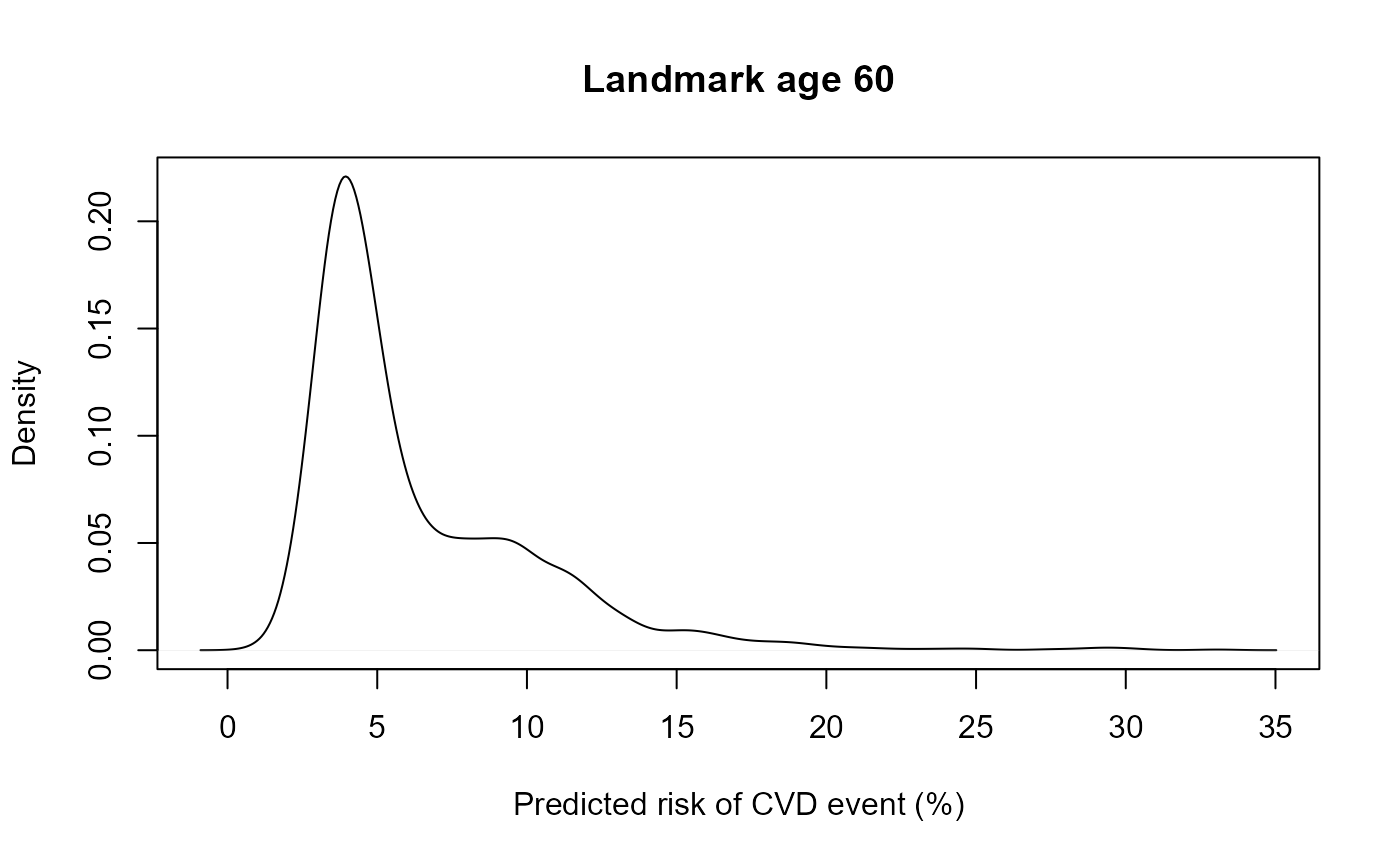
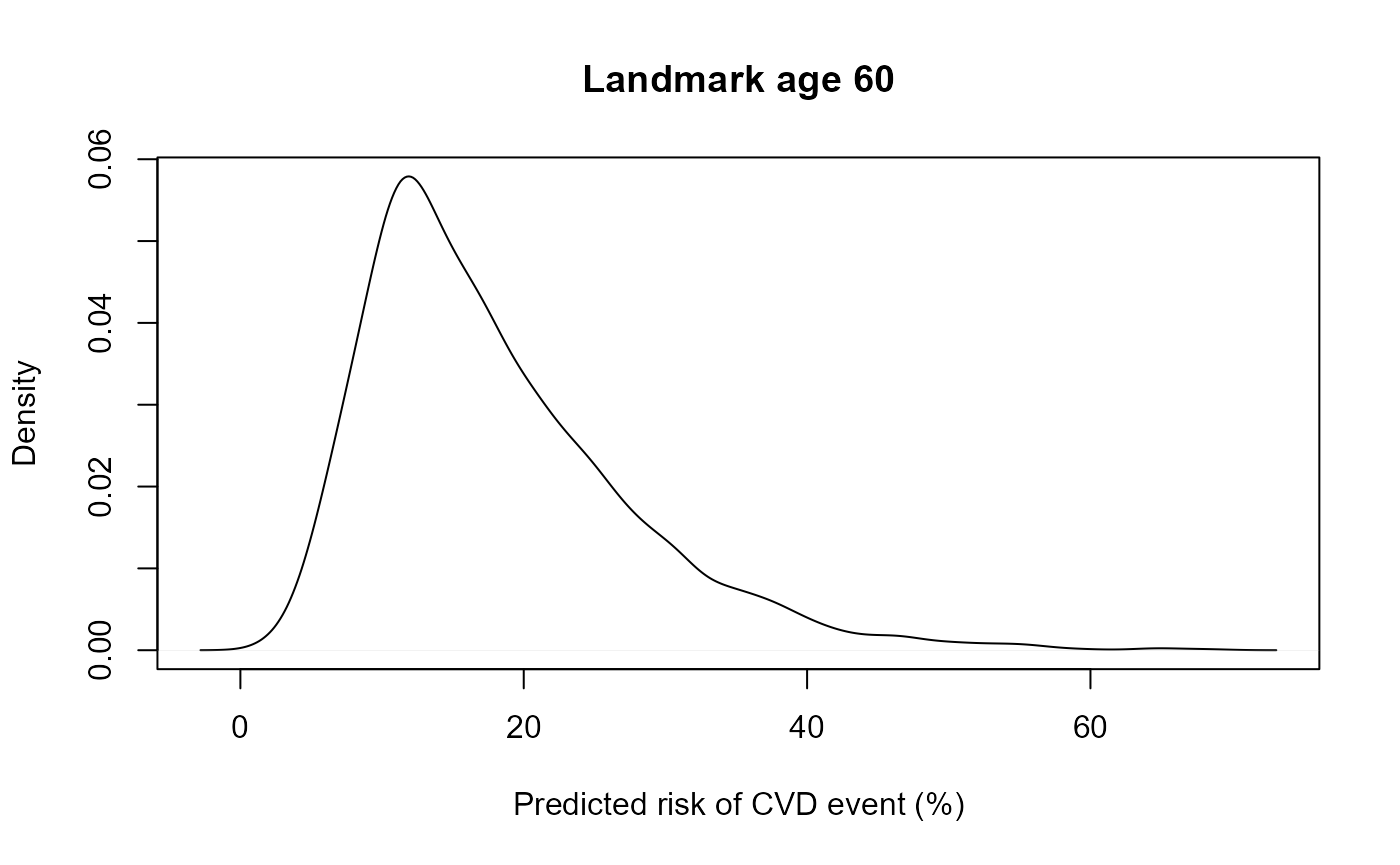
Vignette with new data

diff --git a/docs/articles/how_to_use.html b/docs/articles/how_to_use.html
@@ -117,42 +117,42 @@
 <span class="fu"><a href="https://rdrr.io/r/base/Random.html" class="external-link">set.seed</a></span><span class="op">(</span><span class="fl">1</span><span class="op">)</span>
 <span class="fu"><a href="https://rdrr.io/r/utils/data.html" class="external-link">data</a></span><span class="op">(</span><span class="va">data_repeat</span><span class="op">)</span>
 <span class="fu"><a href="https://rdrr.io/r/utils/head.html" class="external-link">head</a></span><span class="op">(</span><span class="va">data_repeat</span><span class="op">)</span>
-<span class="co">#&gt;   id smoking diabetes ethnicity deprivation index    sbp_stnd tchdl_stnd</span>
-<span class="co">#&gt; 1  1       0        0  European           2     1 -1.32031272 -0.6701369</span>
-<span class="co">#&gt; 2  1       0        0  European           2     2 -0.79339073 -1.1694297</span>
-<span class="co">#&gt; 3  1       0        0  European           2     3 -1.49207104 -0.6655325</span>
-<span class="co">#&gt; 4  1       0        0  European           2     4 -0.04093651 -0.6756338</span>
-<span class="co">#&gt; 5  2       0        0  European           1     1 -0.70343579 -1.0776750</span>
-<span class="co">#&gt; 6  3       1        0  European           5     1  0.86883763 -0.7842055</span>
-<span class="co">#&gt;   end_of_study_age response_time_tchdl_stnd response_time_sbp_stnd</span>
-<span class="co">#&gt; 1         71.23340                 58.03422               57.98220</span>
-<span class="co">#&gt; 2         71.23340                 57.55236               57.51403</span>
-<span class="co">#&gt; 3         71.23340                 59.14579               59.06913</span>
-<span class="co">#&gt; 4         71.23340                 61.19644               61.18275</span>
-<span class="co">#&gt; 5         71.64408                 65.55236               65.51403</span>
-<span class="co">#&gt; 6         69.55784                 63.04723               63.00616</span>
+<span class="co">#&gt;   id smoking diabetes ethnicity        dob index   sbp_stnd   tchdl_stnd</span>
+<span class="co">#&gt; 1  1       0        0  European 1957-03-26     1  0.6083674  0.462541398</span>
+<span class="co">#&gt; 2  2       0        0  European 1952-11-12     1 -0.6701342  0.005126055</span>
+<span class="co">#&gt; 3  3       1        0  European 1953-08-03     1  1.2431679  0.183656473</span>
+<span class="co">#&gt; 4  3       1        0  European 1953-08-03     2  0.9569143  0.185134324</span>
+<span class="co">#&gt; 5  3       1        0  European 1953-08-03     3  1.0044586 -0.391911821</span>
+<span class="co">#&gt; 6  4       0        0   Pacific 1959-07-07     1  0.2846879 -0.080660875</span>
+<span class="co">#&gt;   response_time_tchdl_stnd response_time_sbp_stnd</span>
+<span class="co">#&gt; 1                 62.58727               62.57906</span>
+<span class="co">#&gt; 2                 57.26762               57.21561</span>
+<span class="co">#&gt; 3                 60.87611               60.79671</span>
+<span class="co">#&gt; 4                 56.50376               56.46817</span>
+<span class="co">#&gt; 5                 63.93977               63.92608</span>
+<span class="co">#&gt; 6                 51.83299               51.81109</span>
 <span class="fu"><a href="https://rdrr.io/r/utils/data.html" class="external-link">data</a></span><span class="op">(</span><span class="va">data_outcomes</span><span class="op">)</span>
 <span class="fu"><a href="https://rdrr.io/r/utils/head.html" class="external-link">head</a></span><span class="op">(</span><span class="va">data_outcomes</span><span class="op">)</span>
 <span class="co">#&gt;   id event_status event_time</span>
-<span class="co">#&gt; 1  1            0   63.12263</span>
-<span class="co">#&gt; 2  2            0   71.64408</span>
-<span class="co">#&gt; 3  3            0   63.17899</span>
-<span class="co">#&gt; 4  4            0   73.52498</span>
-<span class="co">#&gt; 5  5            0   64.72005</span>
-<span class="co">#&gt; 6  6            0   62.23649</span></code></pre></div>
-<p>Looking further at these datasets we see that there are 3000 patients in this study, each with an average of 3.016 assessments.</p>
+<span class="co">#&gt; 1  1            1   60.73112</span>
+<span class="co">#&gt; 2  2            0   66.07927</span>
+<span class="co">#&gt; 3  3            0   66.10580</span>
+<span class="co">#&gt; 4  4            0   61.74113</span>
+<span class="co">#&gt; 5  5            0   65.99720</span>
+<span class="co">#&gt; 6  6            0   61.81972</span></code></pre></div>
+<p>Looking further at these datasets we see that there are 3000 patients in this study, each with an average of 0.9031 assessments.</p>
 <div class="sourceCode" id="cb2"><pre class="downlit sourceCode r">
 <code class="sourceCode R"><span class="fu"><a href="https://rdrr.io/r/base/length.html" class="external-link">length</a></span><span class="op">(</span><span class="fu"><a href="https://rdrr.io/r/base/unique.html" class="external-link">unique</a></span><span class="op">(</span><span class="va">data_repeat</span><span class="op">$</span><span class="va">id</span><span class="op">)</span><span class="op">)</span>
 <span class="co">#&gt; [1] 3000</span>
 <span class="fu"><a href="https://rdrr.io/r/base/mean.html" class="external-link">mean</a></span><span class="op">(</span><span class="fu"><a href="https://rdrr.io/r/base/table.html" class="external-link">table</a></span><span class="op">(</span><span class="va">data_repeat</span><span class="op">$</span><span class="va">id</span><span class="op">)</span><span class="op">)</span>
-<span class="co">#&gt; [1] 3.016</span></code></pre></div>
+<span class="co">#&gt; [1] 0.9031</span></code></pre></div>
 <p>Moreover, we can see the breakdown of events</p>
 <div class="sourceCode" id="cb3"><pre class="downlit sourceCode r">
 <code class="sourceCode R"><span class="fu"><a href="https://rdrr.io/r/base/table.html" class="external-link">table</a></span><span class="op">(</span><span class="va">data_outcomes</span><span class="op">$</span><span class="va">event_status</span><span class="op">)</span>
 <span class="co">#&gt; </span>
 <span class="co">#&gt;    0    1    2 </span>
-<span class="co">#&gt; 2872   93   35</span></code></pre></div>
-<p>So 93 patients in the study (out of 3000) experienced a CVD event and 35 experienced death from other causes.</p>
+<span class="co">#&gt; 2538  429   33</span></code></pre></div>
+<p>So 429 patients in the study (out of 3000) experienced a CVD event and 33 experienced death from other causes.</p>
 </div>
 <div id="set-up" class="section level2">
 <h2 class="hasAnchor">
@@ -161,27 +161,20 @@
 <div class="sourceCode" id="cb4"><pre class="downlit sourceCode r">
 <code class="sourceCode R"><span class="va">data_repeat_outcomes</span><span class="op">&lt;-</span><span class="fu">dplyr</span><span class="fu">::</span><span class="fu"><a href="https://dplyr.tidyverse.org/reference/mutate-joins.html" class="external-link">left_join</a></span><span class="op">(</span><span class="va">data_repeat</span>,<span class="va">data_outcomes</span>,by<span class="op">=</span><span class="st">"id"</span><span class="op">)</span>
 <span class="fu"><a href="https://rdrr.io/r/utils/head.html" class="external-link">head</a></span><span class="op">(</span><span class="va">data_repeat_outcomes</span><span class="op">)</span>
-<span class="co">#&gt;   id smoking diabetes ethnicity deprivation index    sbp_stnd tchdl_stnd</span>
-<span class="co">#&gt; 1  1       0        0  European           2     1 -1.32031272 -0.6701369</span>
-<span class="co">#&gt; 2  1       0        0  European           2     2 -0.79339073 -1.1694297</span>
-<span class="co">#&gt; 3  1       0        0  European           2     3 -1.49207104 -0.6655325</span>
-<span class="co">#&gt; 4  1       0        0  European           2     4 -0.04093651 -0.6756338</span>
-<span class="co">#&gt; 5  2       0        0  European           1     1 -0.70343579 -1.0776750</span>
-<span class="co">#&gt; 6  3       1        0  European           5     1  0.86883763 -0.7842055</span>
-<span class="co">#&gt;   end_of_study_age response_time_tchdl_stnd response_time_sbp_stnd event_status</span>
-<span class="co">#&gt; 1         71.23340                 58.03422               57.98220            0</span>
-<span class="co">#&gt; 2         71.23340                 57.55236               57.51403            0</span>
-<span class="co">#&gt; 3         71.23340                 59.14579               59.06913            0</span>
-<span class="co">#&gt; 4         71.23340                 61.19644               61.18275            0</span>
-<span class="co">#&gt; 5         71.64408                 65.55236               65.51403            0</span>
-<span class="co">#&gt; 6         69.55784                 63.04723               63.00616            0</span>
-<span class="co">#&gt;   event_time</span>
-<span class="co">#&gt; 1   63.12263</span>
-<span class="co">#&gt; 2   63.12263</span>
-<span class="co">#&gt; 3   63.12263</span>
-<span class="co">#&gt; 4   63.12263</span>
-<span class="co">#&gt; 5   71.64408</span>
-<span class="co">#&gt; 6   63.17899</span></code></pre></div>
+<span class="co">#&gt;   id smoking diabetes ethnicity        dob index   sbp_stnd   tchdl_stnd</span>
+<span class="co">#&gt; 1  1       0        0  European 1957-03-26     1  0.6083674  0.462541398</span>
+<span class="co">#&gt; 2  2       0        0  European 1952-11-12     1 -0.6701342  0.005126055</span>
+<span class="co">#&gt; 3  3       1        0  European 1953-08-03     1  1.2431679  0.183656473</span>
+<span class="co">#&gt; 4  3       1        0  European 1953-08-03     2  0.9569143  0.185134324</span>
+<span class="co">#&gt; 5  3       1        0  European 1953-08-03     3  1.0044586 -0.391911821</span>
+<span class="co">#&gt; 6  4       0        0   Pacific 1959-07-07     1  0.2846879 -0.080660875</span>
+<span class="co">#&gt;   response_time_tchdl_stnd response_time_sbp_stnd event_status event_time</span>
+<span class="co">#&gt; 1                 62.58727               62.57906            1   60.73112</span>
+<span class="co">#&gt; 2                 57.26762               57.21561            0   66.07927</span>
+<span class="co">#&gt; 3                 60.87611               60.79671            0   66.10580</span>
+<span class="co">#&gt; 4                 56.50376               56.46817            0   66.10580</span>
+<span class="co">#&gt; 5                 63.93977               63.92608            0   66.10580</span>
+<span class="co">#&gt; 6                 51.83299               51.81109            0   61.74113</span></code></pre></div>
 <p>We are now ready to begin the analysis using the Landmarking package.</p>
 </div>
 <div id="analysis" class="section level2">
@@ -215,11 +208,35 @@
     event_status <span class="op">=</span> <span class="st">"event_status"</span>,
     survival_submodel <span class="op">=</span> <span class="st">"cause_specific"</span>
   <span class="op">)</span>
-<span class="co">#&gt; Warning in FUN(X[[i]], ...): 21 individuals have been removed from the model</span>
+<span class="co">#&gt; Warning in FUN(X[[i]], ...): 132 individuals have been removed from the model</span>
 <span class="co">#&gt; building as they are not in the risk set at landmark age 61</span>
 <span class="co">#&gt; [1] "Fitting longitudinal submodel, landmark age 60"</span>
 <span class="co">#&gt; [1] "Complete, landmark age 60"</span>
 <span class="co">#&gt; [1] "Fitting survival submodel, landmark age 60"</span>
+<span class="co">#&gt; Warning in coxph.fit(X, Y, istrat, offset, init, control, weights = weights, :</span>
+<span class="co">#&gt; Loglik converged before variable 2,4 ; coefficient may be infinite.</span>
+<span class="co">#&gt; Warning in coxph.fit(X, Y, istrat, offset, init, control, weights = weights, :</span>
+<span class="co">#&gt; Loglik converged before variable 2 ; coefficient may be infinite.</span>
+<span class="co">#&gt; Warning in coxph.fit(X, Y, istrat, offset, init, control, weights = weights, :</span>
+<span class="co">#&gt; Loglik converged before variable 1,3,4 ; coefficient may be infinite.</span>
+<span class="co">#&gt; Warning in coxph.fit(X, Y, istrat, offset, init, control, weights = weights, :</span>
+<span class="co">#&gt; Loglik converged before variable 2 ; coefficient may be infinite.</span>
+
+<span class="co">#&gt; Warning in coxph.fit(X, Y, istrat, offset, init, control, weights = weights, :</span>
+<span class="co">#&gt; Loglik converged before variable 2 ; coefficient may be infinite.</span>
+
+<span class="co">#&gt; Warning in coxph.fit(X, Y, istrat, offset, init, control, weights = weights, :</span>
+<span class="co">#&gt; Loglik converged before variable 2 ; coefficient may be infinite.</span>
+
+<span class="co">#&gt; Warning in coxph.fit(X, Y, istrat, offset, init, control, weights = weights, :</span>
+<span class="co">#&gt; Loglik converged before variable 2 ; coefficient may be infinite.</span>
+
+<span class="co">#&gt; Warning in coxph.fit(X, Y, istrat, offset, init, control, weights = weights, :</span>
+<span class="co">#&gt; Loglik converged before variable 2 ; coefficient may be infinite.</span>
+
+<span class="co">#&gt; Warning in coxph.fit(X, Y, istrat, offset, init, control, weights = weights, :</span>
+<span class="co">#&gt; Loglik converged before variable 2 ; coefficient may be infinite.</span>
+
 <span class="co">#&gt; Warning in coxph.fit(X, Y, istrat, offset, init, control, weights = weights, :</span>
 <span class="co">#&gt; Loglik converged before variable 2 ; coefficient may be infinite.</span>
 <span class="co">#&gt; [1] "Complete, landmark age 60"</span>
@@ -227,7 +244,33 @@
 <span class="co">#&gt; [1] "Complete, landmark age 61"</span>
 <span class="co">#&gt; [1] "Fitting survival submodel, landmark age 61"</span>
 <span class="co">#&gt; Warning in coxph.fit(X, Y, istrat, offset, init, control, weights = weights, :</span>
-<span class="co">#&gt; Loglik converged before variable 2 ; coefficient may be infinite.</span>
+<span class="co">#&gt; Loglik converged before variable 1,3 ; coefficient may be infinite.</span>
+<span class="co">#&gt; Warning in coxph.fit(X, Y, istrat, offset, init, control, weights = weights, :</span>
+<span class="co">#&gt; Loglik converged before variable 1,3,4 ; coefficient may be infinite.</span>
+
+<span class="co">#&gt; Warning in coxph.fit(X, Y, istrat, offset, init, control, weights = weights, :</span>
+<span class="co">#&gt; Loglik converged before variable 1,3,4 ; coefficient may be infinite.</span>
+
+<span class="co">#&gt; Warning in coxph.fit(X, Y, istrat, offset, init, control, weights = weights, :</span>
+<span class="co">#&gt; Loglik converged before variable 1,3,4 ; coefficient may be infinite.</span>
+
+<span class="co">#&gt; Warning in coxph.fit(X, Y, istrat, offset, init, control, weights = weights, :</span>
+<span class="co">#&gt; Loglik converged before variable 1,3,4 ; coefficient may be infinite.</span>
+
+<span class="co">#&gt; Warning in coxph.fit(X, Y, istrat, offset, init, control, weights = weights, :</span>
+<span class="co">#&gt; Loglik converged before variable 1,3,4 ; coefficient may be infinite.</span>
+
+<span class="co">#&gt; Warning in coxph.fit(X, Y, istrat, offset, init, control, weights = weights, :</span>
+<span class="co">#&gt; Loglik converged before variable 1,3,4 ; coefficient may be infinite.</span>
+
+<span class="co">#&gt; Warning in coxph.fit(X, Y, istrat, offset, init, control, weights = weights, :</span>
+<span class="co">#&gt; Loglik converged before variable 1,3,4 ; coefficient may be infinite.</span>
+
+<span class="co">#&gt; Warning in coxph.fit(X, Y, istrat, offset, init, control, weights = weights, :</span>
+<span class="co">#&gt; Loglik converged before variable 1,3,4 ; coefficient may be infinite.</span>
+
+<span class="co">#&gt; Warning in coxph.fit(X, Y, istrat, offset, init, control, weights = weights, :</span>
+<span class="co">#&gt; Loglik converged before variable 1,3,4 ; coefficient may be infinite.</span>
 <span class="co">#&gt; [1] "Complete, landmark age 61"</span></code></pre></div>
 <p>We can see that fitting this model returns the warnings such as <code>Loglik converged before variable  2 ; coefficient may be infinite.</code>. Taking a look at the model fit contained in <code>data_model_landmark_LOCF$model_survival</code>, we can see the confidence intervals for certain folds is very large. This is due there being few observations for these covariates. However, as only the point estimate of the coefficient is needed to calculate the risk prediction, inaccurate standard error values is not a problem. Indeed we have obtained the risk predictions and can take a look at their distribution.</p>
 <div class="sourceCode" id="cb7"><pre class="downlit sourceCode r">
@@ -241,59 +284,59 @@
 <div class="sourceCode" id="cb8"><pre class="downlit sourceCode r">
 <code class="sourceCode R"><span class="va">data_model_landmark_LOCF</span>
 <span class="co">#&gt; $`60`</span>
-<span class="co">#&gt;   id smoking diabetes           ethnicity   sbp_stnd tchdl_stnd</span>
-<span class="co">#&gt; 1  1       0        0            European -1.4920710 -0.6655325</span>
-<span class="co">#&gt; 2  3       1        0            European -1.3437038 -0.3685394</span>
-<span class="co">#&gt; 3  5       0        0            European -0.6875824  1.0225489</span>
-<span class="co">#&gt; 4  6       0        0             Pacific -0.2432283  0.3827371</span>
-<span class="co">#&gt; 5  8       1        0 Chinese_other_asian  0.1512618 -1.8789467</span>
-<span class="co">#&gt; 6  9       1        0 Chinese_other_asian -0.6250009 -0.8955987</span>
+<span class="co">#&gt;   id smoking diabetes           ethnicity    sbp_stnd   tchdl_stnd</span>
+<span class="co">#&gt; 1  2       0        0            European -0.67013418  0.005126055</span>
+<span class="co">#&gt; 2  3       1        0            European  0.95691425  0.185134324</span>
+<span class="co">#&gt; 3  4       0        0             Pacific  0.28468785 -0.080660875</span>
+<span class="co">#&gt; 4  6       0        0             Pacific  0.01195977 -0.009527314</span>
+<span class="co">#&gt; 5  8       1        0 Chinese_other_asian  0.57615543 -0.263779371</span>
+<span class="co">#&gt; 6  9       1        0 Chinese_other_asian  0.68745060  0.314483754</span>
 <span class="co">#&gt;   cross_validation_number event_status event_time event_prediction</span>
-<span class="co">#&gt; 1                       5            0   63.12263       0.03483207</span>
-<span class="co">#&gt; 2                      10            0   63.17899       0.08414889</span>
-<span class="co">#&gt; 3                       8            0   64.72005       0.04078069</span>
-<span class="co">#&gt; 4                       9            0   62.23649       0.05184346</span>
-<span class="co">#&gt; 5                       4            0   64.71262       0.05666483</span>
-<span class="co">#&gt; 6                      10            0   65.00000       0.05656462</span>
+<span class="co">#&gt; 1                       5            0   65.00000       0.18372278</span>
+<span class="co">#&gt; 2                      10            0   65.00000       0.15278193</span>
+<span class="co">#&gt; 3                       8            0   61.74113       0.10378522</span>
+<span class="co">#&gt; 4                       8            0   61.81972       0.11601665</span>
+<span class="co">#&gt; 5                       4            0   65.00000       0.09842226</span>
+<span class="co">#&gt; 6                      10            0   63.07539       0.08866377</span>
 <span class="co">#&gt; </span>
 <span class="co">#&gt; $`61`</span>
-<span class="co">#&gt;   id smoking diabetes           ethnicity   sbp_stnd tchdl_stnd</span>
-<span class="co">#&gt; 1  1       0        0            European -1.4920710 -0.6655325</span>
-<span class="co">#&gt; 2  3       1        0            European -1.3437038 -0.3685394</span>
-<span class="co">#&gt; 3  5       0        0            European -0.6875824  1.0225489</span>
-<span class="co">#&gt; 4  6       0        0             Pacific -0.2432283  0.3827371</span>
-<span class="co">#&gt; 5  8       1        0 Chinese_other_asian  0.1512618 -1.8789467</span>
-<span class="co">#&gt; 6  9       1        0 Chinese_other_asian -0.6250009 -0.8955987</span>
+<span class="co">#&gt;   id smoking diabetes           ethnicity    sbp_stnd   tchdl_stnd</span>
+<span class="co">#&gt; 1  2       0        0            European -0.67013418  0.005126055</span>
+<span class="co">#&gt; 2  3       1        0            European  1.24316786  0.183656473</span>
+<span class="co">#&gt; 3  4       0        0             Pacific  0.28468785 -0.080660875</span>
+<span class="co">#&gt; 4  6       0        0             Pacific  0.01195977 -0.009527314</span>
+<span class="co">#&gt; 5  8       1        0 Chinese_other_asian  0.57615543 -0.263779371</span>
+<span class="co">#&gt; 6  9       1        0 Chinese_other_asian  0.68745060  0.314483754</span>
 <span class="co">#&gt;   cross_validation_number event_status event_time event_prediction</span>
-<span class="co">#&gt; 1                       5            0   63.12263       0.02589344</span>
-<span class="co">#&gt; 2                      10            0   63.17899       0.06209514</span>
-<span class="co">#&gt; 3                       8            0   64.72005       0.02430266</span>
-<span class="co">#&gt; 4                       9            0   62.23649       0.04195316</span>
-<span class="co">#&gt; 5                       4            0   64.71262       0.05045123</span>
-<span class="co">#&gt; 6                      10            0   65.68098       0.03561499</span></code></pre></div>
+<span class="co">#&gt; 1                       5            0   66.00000        0.1436272</span>
+<span class="co">#&gt; 2                      10            0   66.00000        0.1563242</span>
+<span class="co">#&gt; 3                       8            0   61.74113        0.1259180</span>
+<span class="co">#&gt; 4                       8            0   61.81972        0.1325977</span>
+<span class="co">#&gt; 5                       4            0   66.00000        0.1124857</span>
+<span class="co">#&gt; 6                      10            0   63.07539        0.1247429</span></code></pre></div>
 <p>The output also contains the prediction error for the model, which is assessed using the Brier score and C-index. The standard error for these estimates can be calculated by setting parameter <code>b</code> to the desired number of bootstrap samples.</p>
 <div class="sourceCode" id="cb9"><pre class="downlit sourceCode r">
 <code class="sourceCode R"><span class="va">data_model_landmark_LOCF</span><span class="op">[[</span><span class="st">"60"</span><span class="op">]</span><span class="op">]</span><span class="op">$</span><span class="va">prediction_error</span>
 <span class="co">#&gt; $c_index</span>
-<span class="co">#&gt; [1] 0.600082</span>
+<span class="co">#&gt; [1] 0.6336452</span>
 <span class="co">#&gt; </span>
 <span class="co">#&gt; $c_index_standard_error</span>
 <span class="co">#&gt; [1] NA</span>
 <span class="co">#&gt; </span>
 <span class="co">#&gt; $brier_score</span>
-<span class="co">#&gt; [1] 0.05457067</span>
+<span class="co">#&gt; [1] 0.1113331</span>
 <span class="co">#&gt; </span>
 <span class="co">#&gt; $brier_score_standard_error</span>
 <span class="co">#&gt; [1] NA</span>
 <span class="va">data_model_landmark_LOCF</span><span class="op">[[</span><span class="st">"61"</span><span class="op">]</span><span class="op">]</span><span class="op">$</span><span class="va">prediction_error</span>
 <span class="co">#&gt; $c_index</span>
-<span class="co">#&gt; [1] 0.5764976</span>
+<span class="co">#&gt; [1] 0.5757325</span>
 <span class="co">#&gt; </span>
 <span class="co">#&gt; $c_index_standard_error</span>
 <span class="co">#&gt; [1] NA</span>
 <span class="co">#&gt; </span>
 <span class="co">#&gt; $brier_score</span>
-<span class="co">#&gt; [1] 0.04462253</span>
+<span class="co">#&gt; [1] 0.1099324</span>
 <span class="co">#&gt; </span>
 <span class="co">#&gt; $brier_score_standard_error</span>
 <span class="co">#&gt; [1] NA</span></code></pre></div>
@@ -332,31 +375,55 @@
 <span class="co">#&gt; [1] "Complete, landmark age 60"</span>
 <span class="co">#&gt; [1] "Fitting survival submodel, landmark age 60"</span>
 <span class="co">#&gt; Warning in coxph.fit(X, Y, istrat, offset, init, control, weights = weights, :</span>
+<span class="co">#&gt; Loglik converged before variable 2,4 ; coefficient may be infinite.</span>
+<span class="co">#&gt; Warning in coxph.fit(X, Y, istrat, offset, init, control, weights = weights, :</span>
+<span class="co">#&gt; Loglik converged before variable 2 ; coefficient may be infinite.</span>
+<span class="co">#&gt; Warning in coxph.fit(X, Y, istrat, offset, init, control, weights = weights, :</span>
+<span class="co">#&gt; Loglik converged before variable 1,3,4 ; coefficient may be infinite.</span>
+<span class="co">#&gt; Warning in coxph.fit(X, Y, istrat, offset, init, control, weights = weights, :</span>
+<span class="co">#&gt; Loglik converged before variable 2 ; coefficient may be infinite.</span>
+
+<span class="co">#&gt; Warning in coxph.fit(X, Y, istrat, offset, init, control, weights = weights, :</span>
+<span class="co">#&gt; Loglik converged before variable 2 ; coefficient may be infinite.</span>
+
+<span class="co">#&gt; Warning in coxph.fit(X, Y, istrat, offset, init, control, weights = weights, :</span>
+<span class="co">#&gt; Loglik converged before variable 2 ; coefficient may be infinite.</span>
+
+<span class="co">#&gt; Warning in coxph.fit(X, Y, istrat, offset, init, control, weights = weights, :</span>
+<span class="co">#&gt; Loglik converged before variable 2 ; coefficient may be infinite.</span>
+
+<span class="co">#&gt; Warning in coxph.fit(X, Y, istrat, offset, init, control, weights = weights, :</span>
+<span class="co">#&gt; Loglik converged before variable 2 ; coefficient may be infinite.</span>
+
+<span class="co">#&gt; Warning in coxph.fit(X, Y, istrat, offset, init, control, weights = weights, :</span>
+<span class="co">#&gt; Loglik converged before variable 2 ; coefficient may be infinite.</span>
+
+<span class="co">#&gt; Warning in coxph.fit(X, Y, istrat, offset, init, control, weights = weights, :</span>
 <span class="co">#&gt; Loglik converged before variable 2 ; coefficient may be infinite.</span>
 <span class="co">#&gt; [1] "Complete, landmark age 60"</span></code></pre></div>
 <p>Comparing the prediction error for the landmarking with LOCF and LME, we can see a slight improvement when the LME model is used.</p>
 <div class="sourceCode" id="cb13"><pre class="downlit sourceCode r">
 <code class="sourceCode R"><span class="va">data_model_landmark_LOCF</span><span class="op">[[</span><span class="st">"60"</span><span class="op">]</span><span class="op">]</span><span class="op">$</span><span class="va">prediction_error</span>
 <span class="co">#&gt; $c_index</span>
-<span class="co">#&gt; [1] 0.600082</span>
+<span class="co">#&gt; [1] 0.6336452</span>
 <span class="co">#&gt; </span>
 <span class="co">#&gt; $c_index_standard_error</span>
 <span class="co">#&gt; [1] NA</span>
 <span class="co">#&gt; </span>
 <span class="co">#&gt; $brier_score</span>
-<span class="co">#&gt; [1] 0.05457067</span>
+<span class="co">#&gt; [1] 0.1113331</span>
 <span class="co">#&gt; </span>
 <span class="co">#&gt; $brier_score_standard_error</span>
 <span class="co">#&gt; [1] NA</span>
 <span class="va">data_model_landmark_LME</span><span class="op">[[</span><span class="st">"60"</span><span class="op">]</span><span class="op">]</span><span class="op">$</span><span class="va">prediction_error</span>
 <span class="co">#&gt; $c_index</span>
-<span class="co">#&gt; [1] 0.5972973</span>
+<span class="co">#&gt; [1] 0.7562121</span>
 <span class="co">#&gt; </span>
 <span class="co">#&gt; $c_index_standard_error</span>
 <span class="co">#&gt; [1] NA</span>
 <span class="co">#&gt; </span>
 <span class="co">#&gt; $brier_score</span>
-<span class="co">#&gt; [1] 0.0545461</span>
+<span class="co">#&gt; [1] 0.0880334</span>
 <span class="co">#&gt; </span>
 <span class="co">#&gt; $brier_score_standard_error</span>
 <span class="co">#&gt; [1] NA</span></code></pre></div>
@@ -380,10 +447,10 @@
   newdata <span class="op">=</span> <span class="va">newdata</span>,
   cv_fold <span class="op">=</span> <span class="fl">1</span>
 <span class="op">)</span>
-<span class="co">#&gt;      id ethnicity smoking diabetes sbp_stnd  tchdl_stnd sbp_stnd_slope</span>
-<span class="co">#&gt; 1: 3001    Indian       0        0 0.557507 -0.01647854    -0.04518955</span>
+<span class="co">#&gt;      id ethnicity smoking diabetes  sbp_stnd  tchdl_stnd sbp_stnd_slope</span>
+<span class="co">#&gt; 1: 3001    Indian       0        0 0.5582313 -0.02973252    -0.01736365</span>
 <span class="co">#&gt;    tchdl_stnd_slope event_prediction</span>
-<span class="co">#&gt; 1:       0.05704999       0.01574949</span>
+<span class="co">#&gt; 1:       0.02830476       0.04297693</span>
 <span class="fu"><a href="https://rdrr.io/r/stats/predict.html" class="external-link">predict</a></span><span class="op">(</span>
   object <span class="op">=</span> <span class="va">data_model_landmark_LME</span>,
   x_L <span class="op">=</span> <span class="fl">60</span>,
@@ -391,10 +458,10 @@
   newdata <span class="op">=</span> <span class="va">newdata</span>,
   cv_fold <span class="op">=</span> <span class="fl">1</span>
 <span class="op">)</span>
-<span class="co">#&gt;      id ethnicity smoking diabetes sbp_stnd  tchdl_stnd sbp_stnd_slope</span>
-<span class="co">#&gt; 1: 3001    Indian       0        0 0.557507 -0.01647854    -0.04518955</span>
+<span class="co">#&gt;      id ethnicity smoking diabetes  sbp_stnd  tchdl_stnd sbp_stnd_slope</span>
+<span class="co">#&gt; 1: 3001    Indian       0        0 0.5582313 -0.02973252    -0.01736365</span>
 <span class="co">#&gt;    tchdl_stnd_slope event_prediction</span>
-<span class="co">#&gt; 1:       0.05704999       0.03282792</span></code></pre></div>
+<span class="co">#&gt; 1:       0.02830476       0.07547921</span></code></pre></div>
 </div>
   </div>
 
